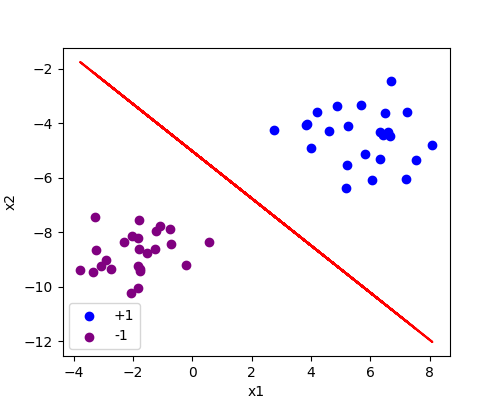
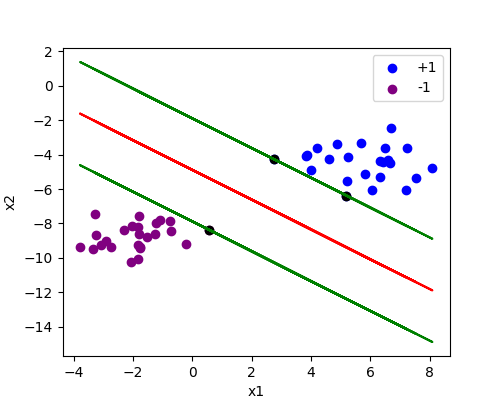
adding assn5 optml

diff --git a/opt_for_ml/assn5/solve_dual.py b/opt_for_ml/assn5/solve_dual.py
@@ -48,47 +48,65 @@ print(sol['primal objective'])
 def calculate_w(X, Y, L):
     return np.dot((X*Y).T,L)
 
-def calculate_b(W, X, Y):
+def calculate_b(W, X, Y, L):
+    N_X = np.hstack([X,Y,L])
+    N_X = N_X[N_X[:,-1] != 0]
+    X = N_X[:,:-2]
+    Y = N_X[:,-2:-1]
     b = Y - np.dot(X,W)
-    return b , b.reshape(b.shape[0]).mean()
+    return round(b[0][0],2)
 
-W = calculate_w(csv_data, target_data, sol["x"])
+L = np.array(sol['x'])
+L = np.array(list(map(lambda x: round(x[0],5),L))).reshape(-1,1)
 
-B, avg_b = calculate_b(W,csv_data,target_data)
+print(L)
 
-w_b = np.vstack([W,np.array([[avg_b]])])
+W = calculate_w(csv_data, target_data, L)
+
+B = calculate_b(W, csv_data, target_data, L)
+
+w_b = np.vstack([W,np.array([[B]])])
 
 print(w_b)
 
-def plot_line(csv_data, W, target_data, save_path):
+def plot_line(csv_data, W, target_data, L, save_path):
+    new_csv_data = np.hstack([csv_data,L])
+    new_csv_data = new_csv_data[new_csv_data[:,-1] != 0]
+    new_x1 = new_csv_data[:,0]
+    new_x2 = new_csv_data[:,1]
     csv_data = np.hstack([csv_data, target_data])
     w1, w2, b = W.reshape(W.shape[0])
     x1 = csv_data[:,0]
     # x-> x1, y-> x2
     x2_values = (-w1 * x1 - b)/w2
+    x2_values_1 = (-w1 * x1 - b - 1)/w2
+    x2_values_2 = (-w1 * x1 - b + 1)/w2
     x11 = csv_data[csv_data[:,2] == 1]
     x12 = csv_data[csv_data[:,2] == -1]
     plt.figure(figsize=(5,4))
     plt.scatter(x11[:,0],x11[:,1],color='blue', label='+1')
     plt.scatter(x12[:,0],x12[:,1],color='purple',label='-1')
+    plt.scatter(new_x1,new_x2,color='black')
     plt.plot(x1,x2_values,color='red')
+    plt.plot(x1,x2_values_1,color='green')
+    plt.plot(x1,x2_values_2,color='green')
     plt.xlabel('x1')
     plt.ylabel('x2')
     plt.legend()
     plt.savefig(save_path)    
 
-plot_line(csv_data, w_b, target_data, sys.argv[3])
+plot_line(csv_data, w_b, target_data, L, sys.argv[3])
 
 """
-[[0.28846696]
- [0.33335372]
- [1.67729363]]
+[[0.28846684]
+ [0.33336018]
+ [1.63      ]]
 
-[[-0.00940147]
- [ 0.42869562]
- [-0.38233143]]
+[[-0.00941362]
+ [ 0.42868884]
+ [-0.45      ]]
 
-[[-0.24313774]
- [ 0.52887561]
- [ 2.28210194]]
+[[-0.24313389]
+ [ 0.52886723]
+ [ 2.81      ]]
 """

diff --git a/opt_for_ml/assn5/solve_primal.py b/opt_for_ml/assn5/solve_primal.py
@@ -32,18 +32,30 @@ sol = cp.solvers.qp(
 print(sol["x"])
 print(sol['primal objective'])
 
-def plot_line(csv_data, W, target_data, save_path):
+L = np.array(sol['z'])
+L = np.array(list(map(lambda x: round(x[0],5),L))).reshape(-1,1)
+
+def plot_line(csv_data, W, target_data,L, save_path):
+    new_csv_data = np.hstack([csv_data,L])
+    new_csv_data = new_csv_data[new_csv_data[:,-1] != 0]
+    new_x1 = new_csv_data[:,0]
+    new_x2 = new_csv_data[:,1]
     csv_data = np.hstack([csv_data, target_data])
     w1, w2, b = W.reshape(W.shape[0])
     x1 = csv_data[:,0]
     # x-> x1, y-> x2
     x2_values = (-w1 * x1 - b)/w2
+    x2_values_1 = (-w1 * x1 - b - 1)/w2
+    x2_values_2 = (-w1 * x1 - b + 1)/w2
     x11 = csv_data[csv_data[:,2] == 1]
     x12 = csv_data[csv_data[:,2] == -1]
     plt.figure(figsize=(5,4))
     plt.scatter(x11[:,0],x11[:,1],color='blue', label='+1')
     plt.scatter(x12[:,0],x12[:,1],color='purple',label='-1')
     plt.plot(x1,x2_values,color='red')
+    plt.plot(x1,x2_values_1,color='green')
+    plt.plot(x1,x2_values_2,color='green')
+    plt.scatter(new_x1,new_x2,color='black')
     plt.xlabel('x1')
     plt.ylabel('x2')
     plt.legend()
@@ -55,7 +67,7 @@ w_b = np.array(sol["x"])
 # w_b[1] = w_b[0]
 # w_b[0] = w2
 
-plot_line(csv_data, w_b, target_data, sys.argv[3])
+plot_line(csv_data, w_b, target_data, L, sys.argv[3])
 
 """
 Optimal solution found.
